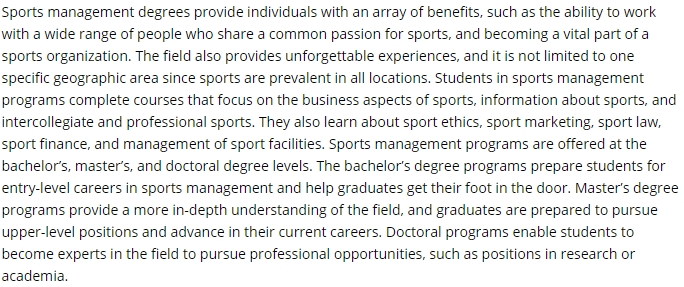
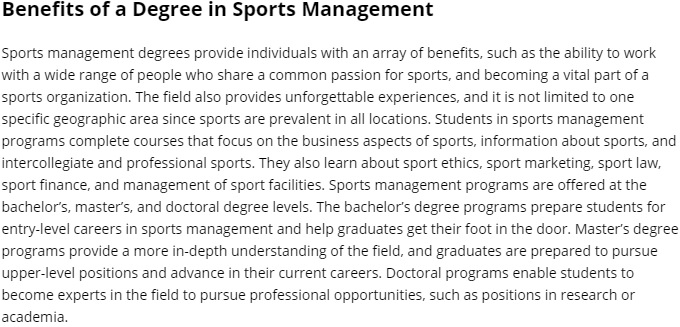
up

diff --git a/index.html b/index.html
@@ -8557,9 +8557,9 @@
                         <div class="entry-content clearfix">
 
                             <picture>
-                                <source srcset="https://sports-management-degree.com/text/1-288.jpg" media="(max-width: 480px)" />
-                                <source srcset="https://sports-management-degree.com/text/1.jpg" media="(min-width: 767px)" />
-                                <img src="//sports-management-degree.com/text/1.jpg" alt="Sports Management Degree" title="Sports Management Degree" />
+                                <source srcset="/text/1-288.jpg" media="(max-width: 480px)" />
+                                <source srcset="/text/1.jpg" media="(min-width: 767px)" />
+                                <img src="/text/1.jpg" alt="Sports Management Degree" title="Sports Management Degree" />
                             </picture>
 
                             <p>Sports Direction is a Subject Which focuses on the Small Business Features Of sport, and also most inside this business have got a sports administration level. </p>
@@ -8567,12 +8567,23 @@
                                 professionals cope with the behind the scenes capabilities, including as fund, promotion, leadership, central administration, and function administration.</p>
                             <p>Sports direction is used in the majority of sorts of quantities of sport, for example, civic diversion, personal associations, societal associations, govt athletic tasks, newbie sports, college-level sports, along with pro
                                 sports activities.</p>
+                            <picture>
+                                <source srcset="/text/2-283.jpg" media="(max-width: 480px)" />
+                                <source srcset="/text/2.jpg" media="(min-width: 767px)" />
+                                <img src="/text/2.jpg" alt="Benefits of a Degree in Sports Management" title="Benefits of a Degree in Sports Management" />
+                            </picture>
 
                             <h2>Sports Administration Diploma</h2>
                             <p>Individuals That want to know more about employed from the sports marketplace and emphasizing the company attributes that encourage the performance of athletic tasks needs to go after qualification in sports direction. </p>
                             <p>These amounts provide pupils having a good comprehension of sport and company and direction along with these elements operate jointly.</p>
                             <p>Students get education directly linked to industry issues in sport, and also most apps incorporate purposeful, practical adventures associated with tackling sports associations or athletic functions. Some level programs empower
                                 students to concentrate in a particular field of their sports marketplace, like sports activities tourism, golfing direction, sports, sports and websites, athletics promotion sports or even sports center administration.</p>
+
+                            <picture>
+                                <source srcset="/text/3-282.jpg" media="(max-width: 480px)" />
+                                <source srcset="/text/3.jpg" media="(min-width: 767px)" />
+                                <img src="/text/3.jpg" alt="Schools Offering Sports Management Degrees" title="Schools Offering Sports Management Degrees" />
+                            </picture>
 
                             <h2>Great Things about a Qualification in Sports Administration</h2>
 
